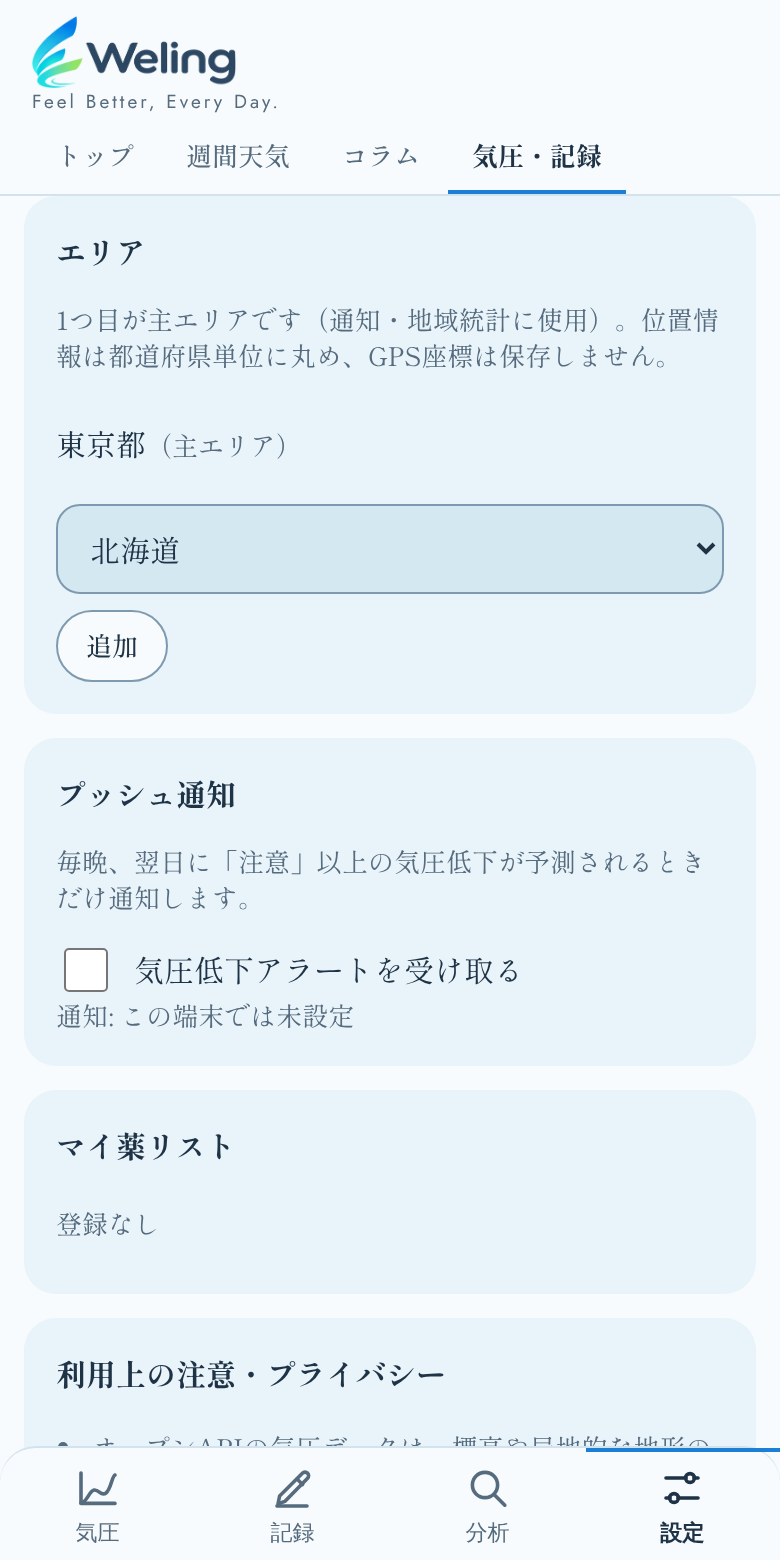
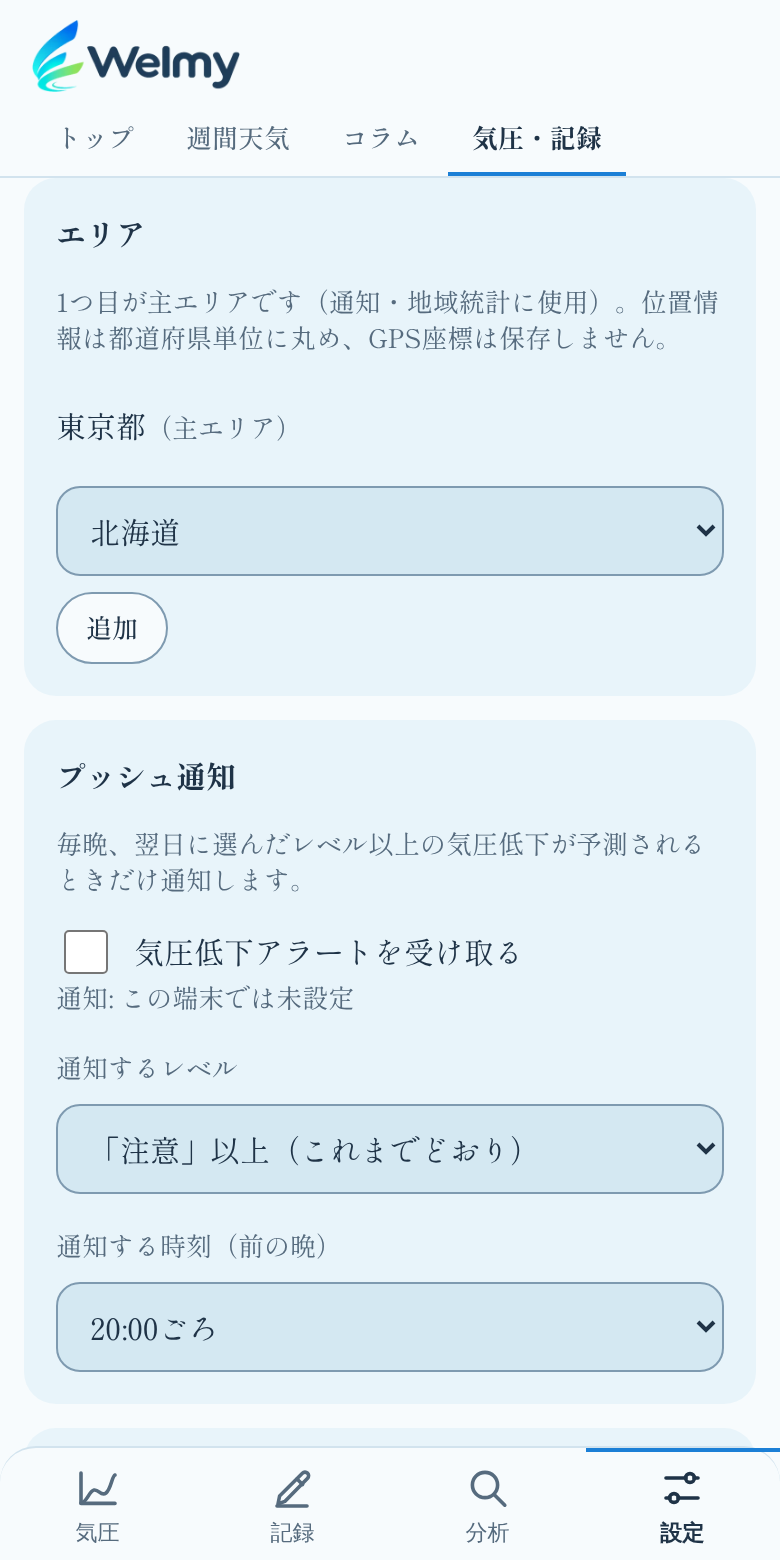
トップ・サービス紹介の画面キャプチャを新ロゴ(Welmy)で撮り直し
Claude-Session: https://claude.ai/code/session_01GABYT29VUZzXrt2vySzu7C

diff --git a/public/sw.js b/public/sw.js
@@ -1,5 +1,5 @@
 // アプリシェルのキャッシュ + FCM(Web Push)の受信
-const CACHE = 'kiatsu-shell-v71';
+const CACHE = 'kiatsu-shell-v72';
 const SHELL = ['/app/', '/style.css', '/ds.css', '/header.css', '/brand.css', '/app.js', '/wx.js', '/faces.js', '/manifest.json', '/terms.html', '/hero/hero.js', '/hero/hero.css', '/vendor/chart.js'];
 
 self.addEventListener('install', (e) => {
